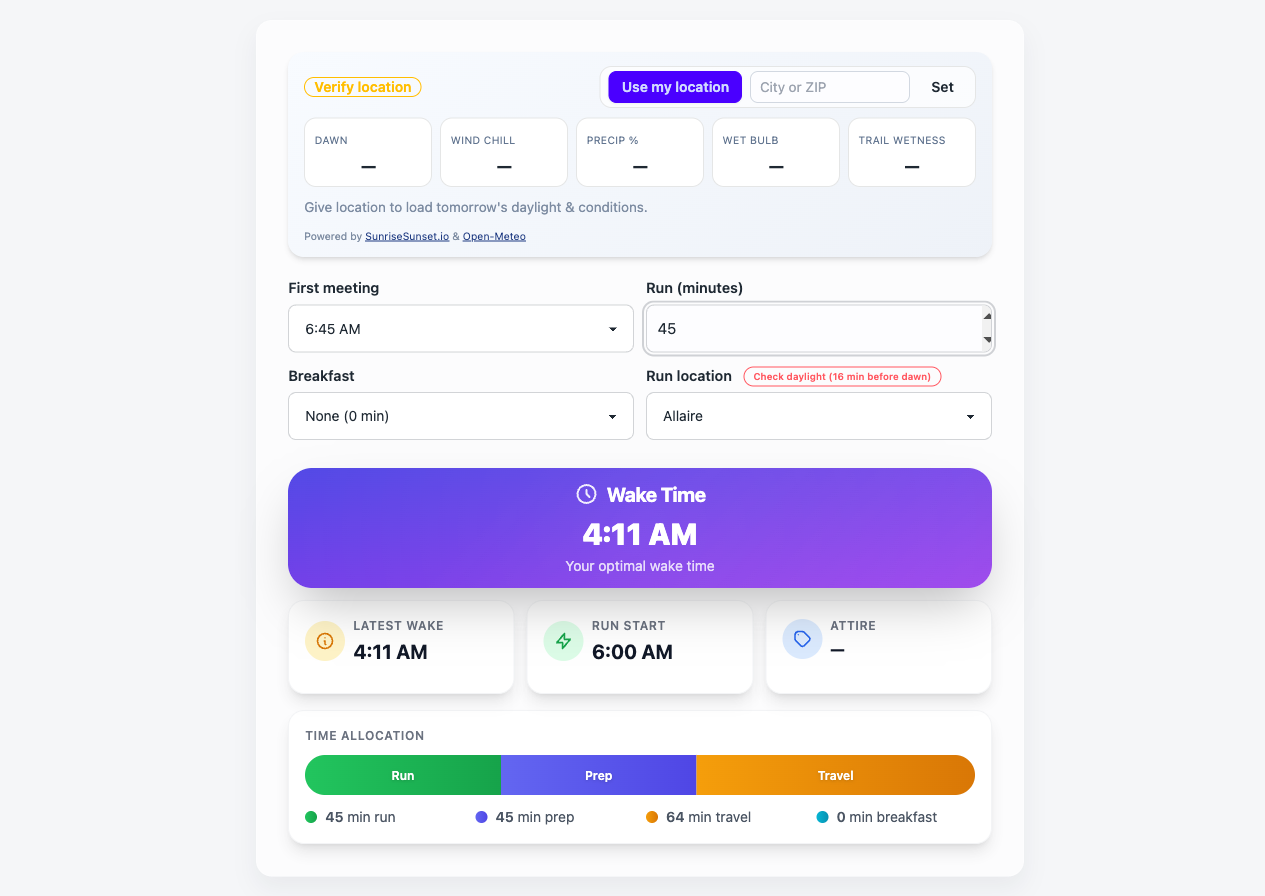
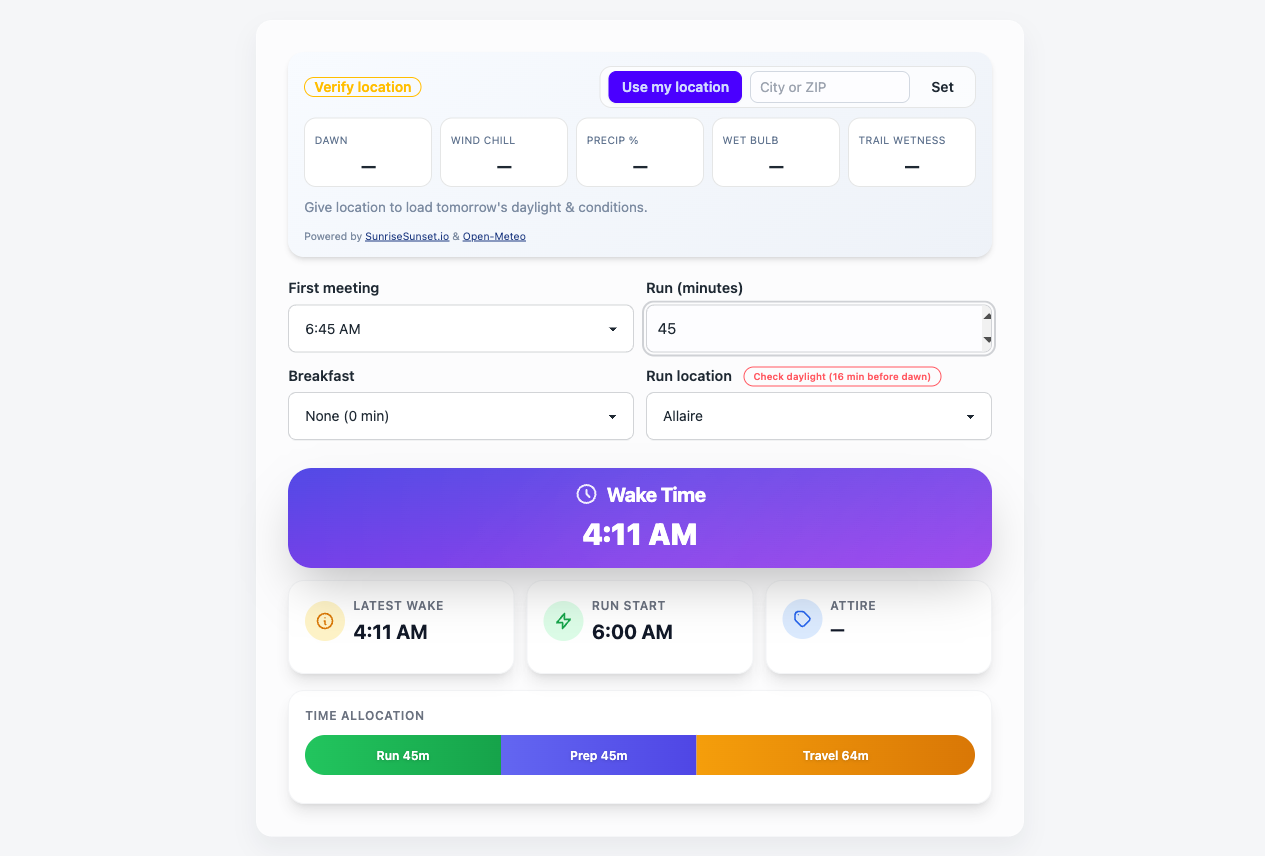
Simplify UI - remove redundant text and integrate labels
- Removed 'Your optimal wake time' subtext from wake card
- Removed time allocation legend below bar chart
- Integrated time values into bar labels (e.g. 'Run 45m', 'Travel 70m')
- Prep always shows '45m' since it's fixed
- Cleaner, more compact interface

🤖 Generated with [Claude Code](https://claude.ai/code)

diff --git a/wake.html b/wake.html
@@ -576,7 +576,6 @@
             <span id="prevDayBadge" class="badge badge-warning badge-sm align-middle hidden mb-2"
               >Previous day</span
             >
-            <div class="text-sm text-white/80">Your optimal wake time</div>
           </div>
         </div>
 
@@ -682,59 +681,28 @@
                 id="runBar"
                 style="flex-basis: 20%"
               >
-                <span class="relative z-10 drop-shadow">Run</span>
+                <span class="relative z-10 drop-shadow" id="runBarText">Run</span>
               </div>
               <div
                 class="bg-gradient-to-r from-indigo-500 to-indigo-600 flex items-center justify-center text-xs font-semibold text-white transition-all duration-500 relative overflow-hidden"
                 id="prepBar"
                 style="flex-basis: 30%"
               >
-                <span class="relative z-10 drop-shadow">Prep</span>
+                <span class="relative z-10 drop-shadow">Prep 45m</span>
               </div>
               <div
                 class="bg-gradient-to-r from-amber-500 to-amber-600 flex items-center justify-center text-xs font-semibold text-white transition-all duration-500 relative overflow-hidden"
                 id="travelBar"
                 style="flex-basis: 20%"
               >
-                <span class="relative z-10 drop-shadow">Travel</span>
+                <span class="relative z-10 drop-shadow" id="travelBarText">Travel</span>
               </div>
               <div
                 class="bg-gradient-to-r from-cyan-500 to-cyan-600 flex items-center justify-center text-xs font-semibold text-white transition-all duration-500 relative overflow-hidden"
                 id="breakfastBar"
                 style="flex-basis: 30%"
               >
-                <span class="relative z-10 drop-shadow">Breakfast</span>
-              </div>
-            </div>
-            <!-- Legend -->
-            <div class="grid grid-cols-2 sm:grid-cols-4 gap-3 text-sm">
-              <div class="flex items-center gap-2">
-                <div
-                  class="w-3 h-3 rounded-full bg-gradient-to-r from-green-500 to-green-600"
-                ></div>
-                <span class="text-gray-600"
-                  ><span id="runMinDisplay" class="font-semibold">0</span> min run</span
-                >
-              </div>
-              <div class="flex items-center gap-2">
-                <div
-                  class="w-3 h-3 rounded-full bg-gradient-to-r from-indigo-500 to-indigo-600"
-                ></div>
-                <span class="text-gray-600"><span class="font-semibold">45</span> min prep</span>
-              </div>
-              <div class="flex items-center gap-2">
-                <div
-                  class="w-3 h-3 rounded-full bg-gradient-to-r from-amber-500 to-amber-600"
-                ></div>
-                <span class="text-gray-600"
-                  ><span id="travelMinDisplay" class="font-semibold">0</span> min travel</span
-                >
-              </div>
-              <div class="flex items-center gap-2">
-                <div class="w-3 h-3 rounded-full bg-gradient-to-r from-cyan-500 to-cyan-600"></div>
-                <span class="text-gray-600"
-                  ><span id="breakfastMinDisplay" class="font-semibold">0</span> min breakfast</span
-                >
+                <span class="relative z-10 drop-shadow" id="breakfastBarText">Breakfast</span>
               </div>
             </div>
           </div>
@@ -1635,15 +1603,15 @@
           const runDurationEl = document.getElementById('runDuration');
           if (runDurationEl) runDurationEl.textContent = `${durations.run} min run`;
 
-          // Update legend displays
-          const runMinDisplay = document.getElementById('runMinDisplay');
-          if (runMinDisplay) runMinDisplay.textContent = durations.run;
+          // Update bar text with minutes
+          const runBarText = document.getElementById('runBarText');
+          if (runBarText) runBarText.textContent = durations.run > 0 ? `Run ${durations.run}m` : 'Run';
 
-          const travelMinDisplay = document.getElementById('travelMinDisplay');
-          if (travelMinDisplay) travelMinDisplay.textContent = durations.travel;
+          const travelBarText = document.getElementById('travelBarText');
+          if (travelBarText) travelBarText.textContent = durations.travel > 0 ? `Travel ${durations.travel}m` : 'Travel';
 
-          const breakfastMinDisplay = document.getElementById('breakfastMinDisplay');
-          if (breakfastMinDisplay) breakfastMinDisplay.textContent = durations.breakfast;
+          const breakfastBarText = document.getElementById('breakfastBarText');
+          if (breakfastBarText) breakfastBarText.textContent = durations.breakfast > 0 ? `Breakfast ${durations.breakfast}m` : 'Breakfast';
 
           // Update breakdown (if element still exists for backwards compatibility)
           const breakdownEl = document.getElementById('breakdown');
